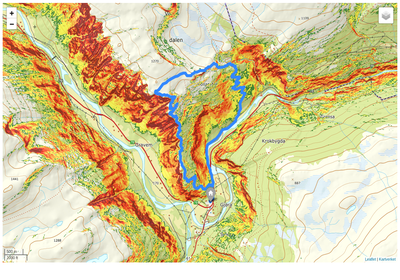
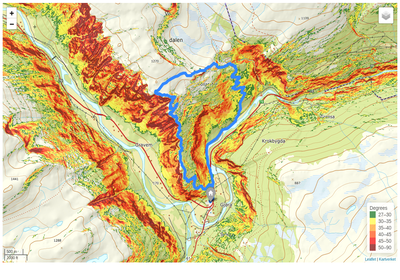
Updated examples and bumped version.

diff --git a/docs/source/gallery/maps/plot_008_overlay.py b/docs/source/gallery/maps/plot_008_overlay.py
@@ -7,6 +7,8 @@ Adding overlays
 This example will create a map, add a track and some
 overlays that will display the steepness.
 """
+from branca.element import MacroElement
+from jinja2 import Template
 import folium
 from gpxplotter import (
     create_folium_map,
@@ -30,6 +32,63 @@ steepness = folium.WmsTileLayer(
     name='Steepness',
 )
 steepness.add_to(the_map)
+
+
+# Add some custom code to show a legend:
+class Legend(MacroElement):
+    """Just add a hard-coded legend template."""
+    _template = Template(u"""
+        {% macro header(this,kwargs) %}
+            <style>
+                .info {
+                    padding: 6px 8px;
+                    font: 14px/16px Arial, Helvetica, sans-serif;
+                    background: white;
+                    background: rgba(255,255,255,0.8);
+                    box-shadow: 0 0 15px rgba(0,0,0,0.2);
+                    border-radius: 5px;
+                }
+                .info h4 {
+                    margin: 0 0 5px;
+                    color: #777;
+                }
+                .legend {
+                    line-height: 18px;
+                    color: #555;
+                }
+                .legend i {
+                    width: 18px;
+                    height: 18px;
+                    float: left;
+                    margin-right: 8px;
+                    opacity: 0.7;
+                }
+            </style>
+        {% endmacro %}
+
+        {% macro script(this,kwargs) %}
+            var legend = L.control({position: 'bottomright'});
+            legend.onAdd = function (map) {
+
+                var div = L.DomUtil.create('div', 'info legend'),
+                steep = [27, 30, 35, 40, 45, 50, 90];
+                colors = ['#13711d', '#fff93e', '#ffa228', '#ff4e11',
+                          '#f50000', '#7c0000'];
+                labels = ['Degrees'];
+                for (var i = 0; i < steep.length - 1; i++) {
+                    labels.push(
+                        '<i style="background:' + colors[i] + '"></i> ' +
+                        steep[i] + '&ndash;' + steep[i + 1]);
+                }
+                div.innerHTML += labels.join('<br>');
+                return div;
+            };
+            legend.addTo({{ this._parent.get_name() }});
+        {% endmacro %}
+        """)
+
+
+the_map.add_child(Legend())
 
 # Add layer control:
 folium.LayerControl(sortLayers=True).add_to(the_map)

diff --git a/gpxplotter/version.py b/gpxplotter/version.py
@@ -4,11 +4,11 @@
 
 This file is generated by gpxplotter (``setup_version.py``).
 """
-SHORT_VERSION = '0.2.2'
-VERSION = '0.2.2'
-FULL_VERSION = '0.2.2'
-GIT_REVISION = '0e573735a0773f4ed8361a10fdf174fbf0e68370'
-GIT_VERSION = '0.2.2'
+SHORT_VERSION = '0.2.3'
+VERSION = '0.2.3'
+FULL_VERSION = '0.2.3'
+GIT_REVISION = '46d2788b6802f83f837e836e8ac7924b53bd9087'
+GIT_VERSION = '0.2.3'
 RELEASE = True
 
 if not RELEASE:

diff --git a/setup.py b/setup.py
@@ -27,7 +27,7 @@ from setuptools import setup, find_packages
 GITHUB = 'https://github.com/andersle/gpxplotter'
 DOCS = 'https://gpxplotter.readthedocs.io/en/latest'
 
-FULL_VERSION = '0.2.2'  # Automatically set by setup_version.py
+FULL_VERSION = '0.2.3'  # Automatically set by setup_version.py
 
 
 def get_long_description():
